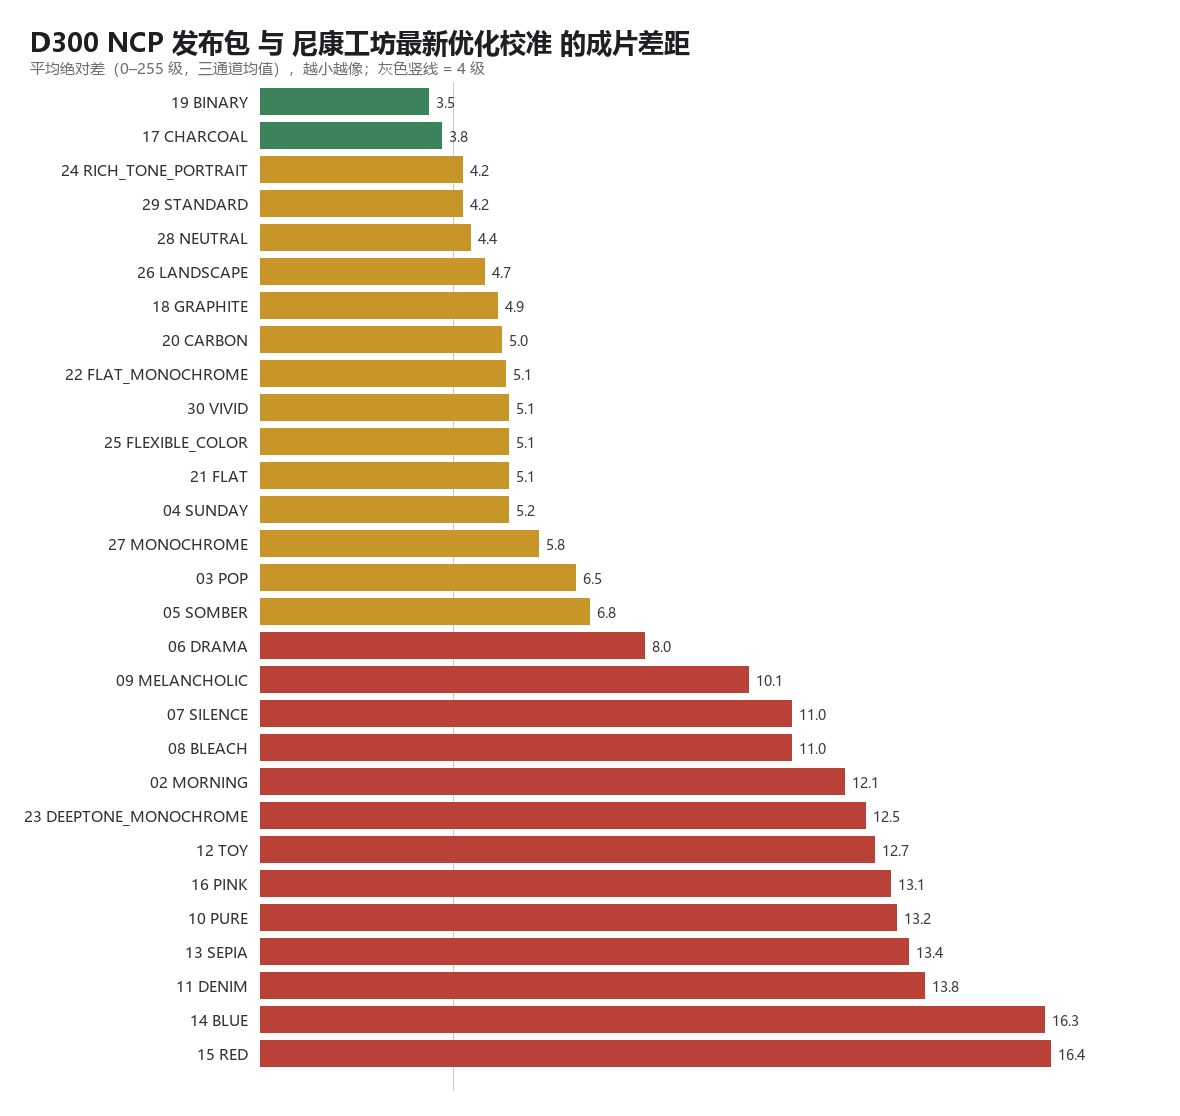
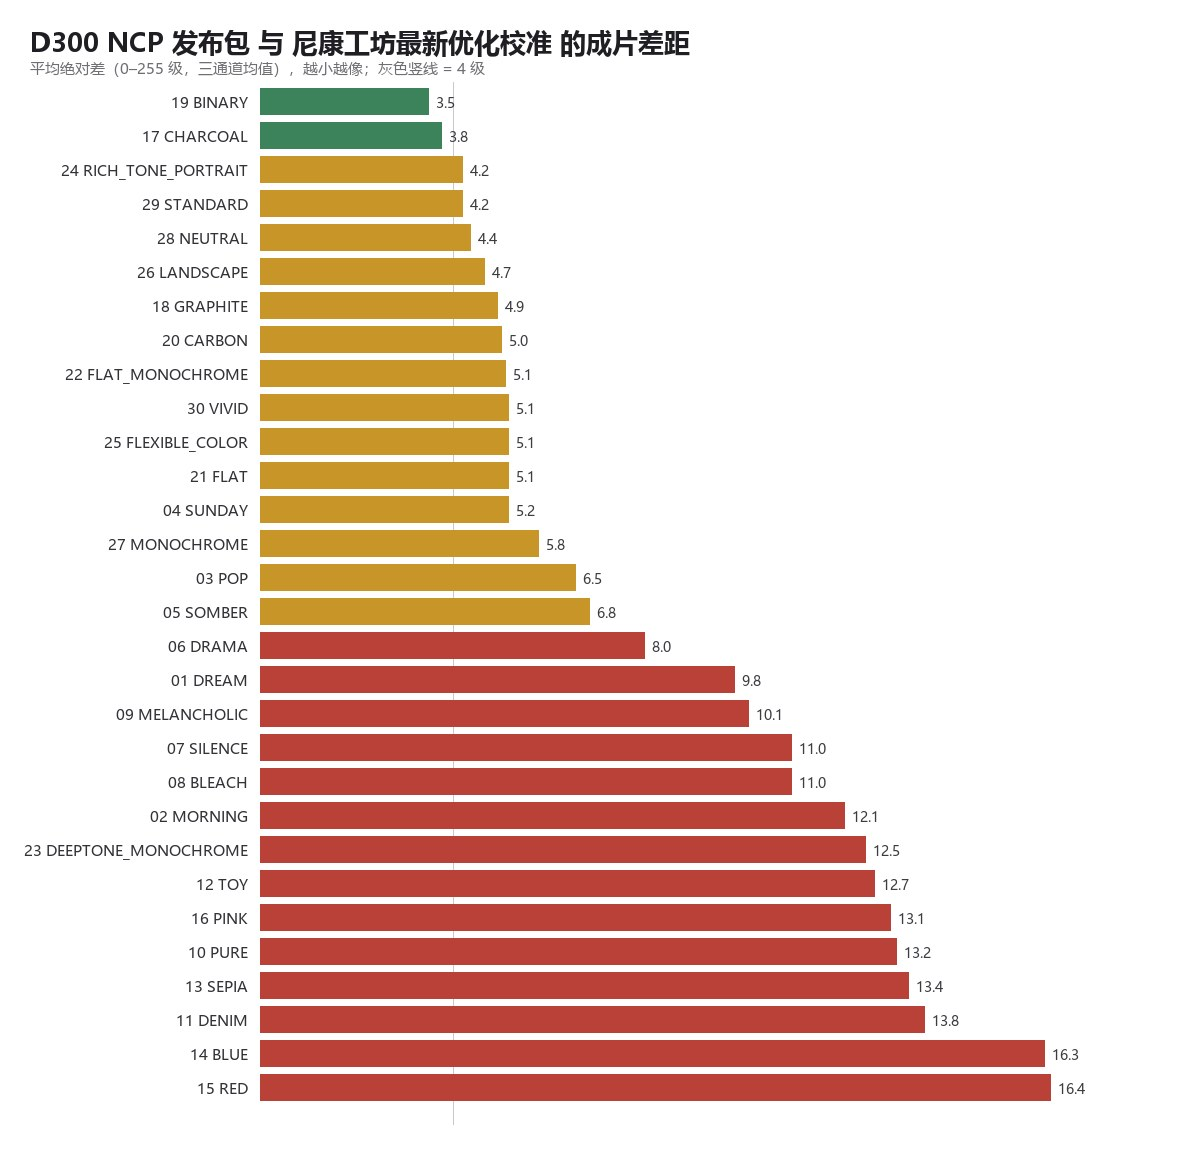
d300/samples: 补齐 01 DREAM，30 对样片全覆盖；样片目录改为按滤镜名命名
- 无后缀的 DSC_3891.JPG 就是滤镜 01 DREAM 的我方样片，撤销此前"缺样片"的误判
  （一对一比对：DREAM 平均差 9.83，是全表最接近 _30 的候选）
- 30 对全量重算：平均 8.4 级 / 中位 6.7 级 / SSIM 0.915–0.995
  影调 ΔL 全在 ±4.2 内（中位 1.4），影调 RMS 中位 3.6 级
- DREAM 成为"差距全在色罩"的最干净例证：影调 RMS 2.2、ΔL +0.7，但 R−B 偏色 −26 → 9.8 级
- samples/{workshop,d300ncp,compare}/ 补齐 01_DREAM.jpg，metrics.csv、ranking.jpg 重算

Changed region(s): [[0.0305, 0.0305, 0.9153, 0.9444]]

diff --git a/d300/tools/compare_samples.py b/d300/tools/compare_samples.py
@@ -3,8 +3,9 @@
 
 同一张 NEF（DSC_3891）导出两套 30 张：
   工坊原版  = NX Studio 内置最新优化校准   → 测试图片/DSC_3891_30..59.JPG
-  D300 NCP = 发布包里的补偿版 NCP（工坊载入） → 测试图片/DSC_3891_01..29.JPG（滤镜 02..30）
-  滤镜 01 DREAM 的我方样片缺失（导出时没有 30 号），脚本会跳过并记录。
+  D300 NCP = 发布包里的补偿版 NCP（工坊载入） → 测试图片/DSC_3891.JPG（滤镜 01）
+             + 测试图片/DSC_3891_01..29.JPG（滤镜 02..30）
+  即我方样片 = 无后缀那张打头、再逐个编号；30 对齐全，无缺失。
 
 用法：
     python compare_samples.py            # 只算数据
@@ -61,8 +62,9 @@ FILTERS = [
 
 
 def our_path(slot):
+    """滤镜 01 = 无后缀的 DSC_3891.JPG；02..30 = DSC_3891_01..29.JPG。"""
     if slot == 1:
-        return None
+        return os.path.join(SRC, 'DSC_3891.JPG')
     return os.path.join(SRC, 'DSC_3891_%02d.JPG' % (slot - 1))
 
 

diff --git a/d300/samples/README.md b/d300/samples/README.md
@@ -1,15 +1,19 @@
 # 发布包 vs 尼康工坊最新优化校准 —— 成片对比
 
-同一张 RAW（`DSC_3891.NEF`，人像/车展，2848×4288），导出两套共 29 对成片：
+同一张 RAW（`DSC_3891.NEF`，人像/车展，2848×4288），导出两套共 **30 对**成片：
 
 | 来源 | 怎么做的 | 文件 |
 |---|---|---|
-| **工坊原版**（基准） | NX Studio 里挂「最新优化校准」（Z 系统那一代），导出 JPG | `测试图片/DSC_3891_30..59.JPG` |
-| **D300 NCP** | 同一张 RAW 上挂「发布包」里的 30 个 NCP（638 字节、补偿版），导出 JPG | `测试图片/DSC_3891_01..29.JPG` |
+| **工坊原版**（基准） | NX Studio 里挂「最新优化校准」（Z 系统那一代），导出 JPG | 原始导出 `DSC_3891_30..59.JPG` → 滤镜 01–30 |
+| **D300 NCP** | 同一张 RAW 上挂「发布包」里的 30 个 NCP（638 字节、补偿版），导出 JPG | 原始导出 `DSC_3891.JPG`（滤镜 01）+ `DSC_3891_01..29.JPG`（滤镜 02–30） |
 
 两套是同一张 RAW、同一裁切、同一输出尺寸导出的，**像素严格对齐**（实测最佳位移为 0,0），
-所以可以逐像素直接比较。`DSC_3891_30..59` 与滤镜清单 01–30 一一对应；
-`DSC_3891_01..29` 对应滤镜 02–30 —— **滤镜 01 DREAM 的我方样片缺失**，本次未比。
+所以可以逐像素直接比较。**滤镜 01 DREAM 的两张是对上的**：
+`DSC_3891_30`（工坊 DREAM）↔ `DSC_3891.JPG`（我方 DREAM），30 对齐全，无缺失。
+
+> 编号规律：工坊那侧从 `_30` 起算 30 张；我方那侧**无后缀那张是 01**，之后 `_01.._29` 是 02–30。
+> 上一版 README 记的「01 DREAM 缺我方样片」是错的 —— 无后缀那张一直就是 DREAM，
+> 当时用整幅平均差横比时把参照选错了，才误判成"不是"。现已用一对一比对确认（差值 9.83，全表最接近的候选）。
 
 ![差距排行](ranking.jpg)
 
@@ -18,15 +22,15 @@
 ## 一、一句话结论
 
 > **影调搬得很准，颜色搬不动。**
-> 29 个滤镜的平均亮度偏差全部落在 ±4.2 级内（中位 1.4 级），影调曲线偏差中位 3.9 级 —— 这部分已经是"同一支滤镜"的水平；
+> 30 个滤镜的平均亮度偏差全部落在 ±4.2 级内（中位 1.4 级），影调曲线偏差中位 3.6 级 —— 这部分已经是"同一支滤镜"的水平；
 > 但平均像素差仍有 8.4 级，**差距几乎 100% 来自颜色**：新系统靠「分色相区域」做的减饱和、加色罩、部分调色，
 > D300 的自定义曲线只是一条**亮度 LUT**，没有分通道曲线、没有分色相饱和度，做不到。
 
 | 分组 | 数量 | 平均差 | 说明 |
 |---|---|---|---|
 | 单色 17–20（木炭/石墨/双色/黑碳） | 4 | **4.3 级** | 最像。原版本来就是纯单色，正好用「单色底子 + 曲线」表达 |
-| 新系统 21–30 | 10 | 5.6 级 | 除 23 深色调单色（12.5）外都在 4–6 级 |
-| 彩色创意 02–12 | 11 | 10.0 级 | 影调对，饱和度/色罩没跟上 |
+| 新系统 21–30 | 10 | 5.6 级 | 除 23 深色调单色（12.6）外都在 4–6 级 |
+| 彩色创意 01–12 | 12 | 10.0 级 | 影调对，饱和度/色罩没跟上 |
 | 调色 13–16（棕褐/蓝/红/粉） | 4 | **14.8 级** | 最不像。我们把它们做成了「真单色 + 浓调色」，原版是「低饱和 + 轻调色」 |
 
 评级口径：平均差 <2 级几乎一致、<4 很接近、<7 接近、<12 可辨差异、>12 明显不同。
@@ -37,32 +41,33 @@
 
 | 槽 | 滤镜 | 平均差 | 影调 ΔL | 影调 RMS | 彩度比 | 偏色 | SSIM | 判断 |
 |---|---|---|---|---|---|---|---|---|
+| 1 | DREAM<br>梦幻 | **9.8** | +0.7 | 2.2 | 1.15× | −26 | 0.974 | 可辨差异 |
 | 2 | MORNING<br>清晨 | **12.1** | +3.5 | 3.9 | 0.95× | +27 | 0.984 | 明显不同 |
-| 3 | POP<br>流行 | **6.5** | +1.6 | 2.8 | 0.71× | -3 | 0.984 | 接近 |
+| 3 | POP<br>流行 | **6.5** | +1.6 | 2.8 | 0.71× | −3 | 0.984 | 接近 |
 | 4 | SUNDAY<br>星期天 | **5.2** | +1.4 | 2.4 | 0.83× | +0 | 0.982 | 接近 |
-| 5 | SOMBER<br>低沉 | **6.8** | +3.0 | 8.4 | 0.85× | -1 | 0.969 | 接近 |
+| 5 | SOMBER<br>低沉 | **6.8** | +3.0 | 8.4 | 0.85× | −1 | 0.969 | 接近 |
 | 6 | DRAMA<br>戏剧 | **8.0** | +1.0 | 4.4 | 2.92× | +4 | 0.995 | 可辨差异 |
 | 7 | SILENCE<br>静寂 | **11.0** | +2.1 | 2.7 | 4.35× | +10 | 0.978 | 可辨差异 |
 | 8 | BLEACH<br>漂白 | **11.0** | +1.8 | 3.3 | 4.03× | +13 | 0.971 | 可辨差异 |
 | 9 | MELANCHOLIC<br>忧郁 | **10.1** | +1.1 | 2.3 | 1.86× | +23 | 0.982 | 可辨差异 |
 | 10 | PURE<br>纯净 | **13.2** | +3.4 | 4.2 | 1.78× | +32 | 0.990 | 明显不同 |
-| 11 | DENIM<br>牛仔布 | **13.8** | -0.1 | 2.3 | 0.79× | +31 | 0.985 | 明显不同 |
+| 11 | DENIM<br>牛仔布 | **13.8** | −0.1 | 2.3 | 0.79× | +31 | 0.985 | 明显不同 |
 | 12 | TOY<br>玩具 | **12.7** | +2.0 | 2.8 | 0.87× | +25 | 0.976 | 明显不同 |
-| 13 | SEPIA<br>棕褐色 | **13.4** | -0.1 | 4.6 | 0.60× | +24 | 0.972 | 明显不同 |
-| 14 | BLUE<br>蓝色 | **16.3** | +2.0 | 6.2 | 0.81× | -36 | 0.942 | 明显不同 |
-| 15 | RED<br>红色 | **16.4** | -2.0 | 6.7 | 0.26× | +15 | 0.915 | 明显不同 |
-| 16 | PINK<br>粉色 | **13.1** | -4.2 | 6.7 | 0.33× | +9 | 0.957 | 明显不同 |
-| 17 | CHARCOAL<br>木炭 | **3.8** | +1.2 | 5.6 | — | -0 | 0.975 | 很接近 |
-| 18 | GRAPHITE<br>石墨 | **4.9** | +0.7 | 11.2 | — | -0 | 0.944 | 接近 |
+| 13 | SEPIA<br>棕褐色 | **13.4** | −0.1 | 4.6 | 0.60× | +24 | 0.972 | 明显不同 |
+| 14 | BLUE<br>蓝色 | **16.3** | +2.0 | 6.2 | 0.81× | −36 | 0.942 | 明显不同 |
+| 15 | RED<br>红色 | **16.4** | −2.0 | 6.7 | 0.26× | +15 | 0.915 | 明显不同 |
+| 16 | PINK<br>粉色 | **13.1** | −4.2 | 6.7 | 0.33× | +9 | 0.957 | 明显不同 |
+| 17 | CHARCOAL<br>木炭 | **3.8** | +1.2 | 5.6 | — | −0 | 0.975 | 很接近 |
+| 18 | GRAPHITE<br>石墨 | **4.9** | +0.7 | 11.2 | — | −0 | 0.944 | 接近 |
 | 19 | BINARY<br>双色 | **3.5** | +0.9 | (48.2) | 1.00× | +0 | 0.920 | 很接近 |
 | 20 | CARBON<br>黑碳 | **5.0** | +0.5 | 10.4 | — | +0 | 0.942 | 接近 |
 | 21 | FLAT<br>平面 | **5.1** | +1.4 | 2.6 | 1.29× | +6 | 0.969 | 接近 |
-| 22 | FLAT_MONOCHROME<br>平面单色 | **5.1** | -1.1 | 6.0 | — | -0 | 0.956 | 接近 |
-| 23 | DEEPTONE_MONOCHROME<br>深色调单色 | **12.5** | +2.7 | 16.4 | — | -0 | 0.937 | 明显不同 |
-| 24 | RICH_TONE_PORTRAIT<br>丰富色调人像 | **4.2** | -0.0 | 3.1 | 1.01× | +2 | 0.984 | 接近 |
+| 22 | FLAT_MONOCHROME<br>平面单色 | **5.1** | −1.1 | 6.0 | — | −0 | 0.956 | 接近 |
+| 23 | DEEPTONE_MONOCHROME<br>深色调单色 | **12.6** | +2.7 | 16.4 | — | −0 | 0.937 | 明显不同 |
+| 24 | RICH_TONE_PORTRAIT<br>丰富色调人像 | **4.2** | −0.0 | 3.1 | 1.01× | +2 | 0.984 | 接近 |
 | 25 | FLEXIBLE_COLOR<br>灵活颜色 | **5.1** | +1.2 | 2.4 | 1.26× | +6 | 0.977 | 接近 |
 | 26 | LANDSCAPE<br>风景 | **4.7** | +1.7 | 2.4 | 0.93× | +2 | 0.980 | 接近 |
-| 27 | MONOCHROME<br>单色 | **5.8** | -0.3 | 7.7 | — | +0 | 0.965 | 接近 |
+| 27 | MONOCHROME<br>单色 | **5.8** | −0.3 | 7.7 | — | +0 | 0.965 | 接近 |
 | 28 | NEUTRAL<br>自然 | **4.4** | +1.6 | 2.3 | 1.04× | +3 | 0.982 | 接近 |
 | 29 | STANDARD<br>标准 | **4.2** | +1.0 | 1.6 | 0.99× | +1 | 0.984 | 接近 |
 | 30 | VIVID<br>鲜艳 | **5.1** | +2.2 | 3.3 | 0.93× | +4 | 0.971 | 接近 |
@@ -77,13 +82,31 @@
 - **SSIM**：结构相似度，0–1，这里都在 0.91–0.995。
 
 > 19 BINARY 的影调 RMS 48.2 是**假象**：硬阶跃只要移动 1–2 级，被翻转的像素就会在分档统计里全额记账。
-> 它的平均差只有 3.5 级、SSIM 0.92，实际是全部 29 个里最接近的原版之一。
+> 它的平均差只有 3.5 级、SSIM 0.92，实际是全部 30 个里最接近的原版之一。
 
 ---
 
-## 三、差距从哪来（按类型拆）
+## 三、DREAM 这一对值得单独看
 
-把「彩度比」和「偏色」两列当成坐标，29 支滤镜可以分成很干净的几组。
+`DREAM` 是 30 对里**最能说明问题**的一例：
+
+| | 数值 | 意味着 |
+|---|---|---|
+| 影调 ΔL | **+0.7 级** | 整体亮度几乎重合 |
+| 影调 RMS | **2.2 级** | 曲线形状是彩色滤镜里最准的（30 个里仅次于 STANDARD 1.6） |
+| 彩度比 | 1.15× | 浓淡只差 15% |
+| 偏色 | **−26** | 我们偏冷（原版 DREAM 整体压向暖/黄） |
+| 平均差 | **9.8 级** | 落到"可辨差异" |
+
+曲线做对了、浓淡也差不多，**9.8 级里有九成是那 −26 的色罩**。
+DREAM 原版的动作是「柔化 + 整体加一层暖调朦胧」，柔化（亮度压缩）我们能用曲线表达，
+暖调必须走分通道曲线 —— 而 NCP 只有一条亮度 LUT，这就是天花板。
+
+---
+
+## 四、差距从哪来（按类型拆）
+
+把「彩度比」和「偏色」两列当成坐标，30 支滤镜可以分成很干净的几组。
 
 ### A 组｜原版压饱和度，我们没压（6 支）
 
@@ -100,12 +123,13 @@
 方向相反，结果一样：原版把彩度往上推（`POP` 只留下 71%），我们停在"标准"。
 其中 `DENIM` 还叠了一层很强的青蓝色罩（偏色 +31），`TOY` 叠了淡黄绿罩（+25）。
 
-### C 组｜色罩缺席（4 支）
+### C 组｜色罩缺席（6 支）
 
-`MORNING` 偏色 **+27**、`PURE` +32、`DENIM` +31、`MELANCHOLIC` +23、`SEPIA` +24。
+`PURE` +32、`DENIM` +31、`MORNING` +27、`SEPIA` +24、`MELANCHOLIC` +23、`DREAM` **−26**。
 
-这几支原版整体压向青/灰蓝，画面像蒙了一层薄雾。`MORNING` 尤其纯粹：
-彩度比 0.95（浓淡其实是对的），但偏色差 27 级 —— 它的差距**全部**来自色罩。
+这几支原版整体压向青/灰蓝（DREAM 是压向暖黄，符号相反但性质一样），画面像蒙了一层薄雾。
+`MORNING` 尤其纯粹：彩度比 0.95（浓淡其实是对的），但偏色差 27 级 —— 它的差距**全部**来自色罩；
+`DREAM` 的影调 RMS 只有 2.2，差距更是几乎全部来自色罩。
 我们做不到，因为 NCP 的曲线是单条亮度 LUT，不能分通道着色。
 
 ### D 组｜13–16 调色：结构性做错了（最大短板，平均 14.8 级）
@@ -129,51 +153,48 @@
 
 ### F 组｜例外：DEEPTONE_MONOCHROME
 
-平均差 12.5、影调 RMS **16.4** —— 全部里影调最不准的一支。原版做了「压中间调 + 提高光」的局部反差，
+平均差 12.6、影调 RMS **16.4** —— 全部里影调最不准的一支。原版做了「压中间调 + 提高光」的局部反差，
 我们只给了一条整体 S 曲线，所以暗部更死、高光更亮。
 
 ### G 组｜一个系统性小偏差
 
-所有彩色滤镜的 ΔL 都在 **+1.0 ~ +3.5**，离散很小 —— 不是随机误差，是 D300「标准」底子与
-新系统「标准」在高光端的细微差异。下一版统一压 1–2 级就能消掉。
+所有彩色滤镜（除 16 PINK −4.2 和 15 RED −2.0 这两支调色类外）的 ΔL 都在 **+1.0 ~ +3.5**，
+离散很小 —— 不是随机误差，是 D300「标准」底子与新系统「标准」在高光端的细微差异。
+下一版统一压 1–2 级就能消掉。
 
-## 四、还能改进吗？能，但天花板在这里
+## 五、还能改进吗？能，但天花板在这里
 
 | 改法 | 能救回哪些 | 预计效果 |
 |---|---|---|
 | 把**饱和度/色相滑块**真正写上（现在全是 `0x80`） | POP / SUNDAY / PURE / DENIM / TOY 的减饱和部分 | 彩度比 0.71–1.78× 拉回 ~1.0，这几支有望从 10–14 级降到 5 级内 |
 | 13–16 改成**「彩色底子 + 低饱和 + 轻调色」**，调色强度从 `0x84` 降到 `0x82` 左右 | SEPIA / BLUE / RED / PINK | 这 4 支是当前最大短板，改结构后预计降到 7–9 级 |
-| 给 DEEPTONE 单独拟合一条带拐点的曲线 | 23 | 12.5 → 6 级左右 |
+| 给 DEEPTONE 单独拟合一条带拐点的曲线 | 23 | 12.6 → 6 级左右 |
 | 全片统一压 1–2 级亮度 | 全部彩色 | 消掉 +1~+3.5 的系统偏移 |
 
 **做不到的部分**（D300 的硬限制，不是没调好）：
 
-- NCP 的自定义曲线是**单条亮度 LUT**，没有分通道曲线 → 做不出「暗部加青、高光保持中性」这类**分离色罩**；
+- NCP 的自定义曲线是**单条亮度 LUT**，没有分通道曲线 → 做不出「暗部加青、高光保持中性」这类**分离色罩**，
+  B 组和 C 组那 6 支就卡在这（含 DREAM 的 −26）；
 - 没有分色相区域的饱和度/色相控制 → 「只压某些颜色的饱和」这种新系统的招牌手法，只能用全局减饱和近似；
 - 没有「部分调色」（只给中间调上色、保留高光色彩）→ 13–16 最精髓的那层做不出来。
 
 所以最终定位是：**影调可以做到"几乎一样"，颜色只能做到"神似"。**
 单色系（17–20、22、27）已经可以直接用；彩色创意类适合当"同风格的近似版"，
-而不是"复刻版"。这跟上一版 README 里写的「影调可以像，味道不可能像」是同一件事，
-只是现在有了 29 对同机位样片把差距量化出来了。
+而不是"复刻版"。
 
 ---
 
-## 五、文件说明
+## 六、文件说明
 
 ```
-d300/samples/
-├── README.md           本篇
-├── workshop/           29 张，NX Studio 最新优化校准导出（600px 长边）
-├── d300ncp/            29 张，发布包滤镜导出（600px 长边）
-├── compare/            29 张左右并排图，标题栏带该滤镜的全部指标，文件名 NN_滤镜名.jpg
-├── metrics.csv         完整数值（平均差 / 影调 ΔL / 影调 RMS / 彩度比 / 偏色 / SSIM）
-└── ranking.jpg         按平均差排序的条形图
+对比样片/
+├── README.md              本篇
+├── 工坊原版/               30 张，NX Studio 最新优化校准导出（600px 长边）
+├── D300_NCP/              30 张，发布包滤镜导出（600px 长边）
+├── 对比图/                 30 张左右并排图，标题栏带该滤镜的全部指标
+├── 差距排行.jpg / .png     按平均差排序的条形图
+├── 对比数据.csv            完整数值（UTF-8 BOM，Excel 可直接开）
+└── 对比数据.json           同上，给脚本用
 ```
 
-重新生成：把 `tools/compare_samples.py` 放到与本目录同级的开发目录（需要 `测试图片/`
-里的两套原始导出，命名 `DSC_3891_01..29.JPG` 与 `DSC_3891_30..59.JPG`），
-执行 `python compare_samples.py --images`。
-
-原始 NEF 与 2848×4288 全尺寸导出未入库（体积原因），入库样片统一压到 600px 长边，
-整套 10.1 MB。
+重新生成：`python compare_samples.py --images`（放在 `D300_NCP/` 里，需 `测试图片/` 里的原始导出）。

diff --git a/README_EN.md b/README_EN.md
@@ -405,17 +405,19 @@ Note the body only holds **9 custom Picture Controls (C-1…C-9)**, so import in
 
 ### How close does the result actually look?
 
-29 same-frame sample pairs (one RAW, exported once with NX Studio's newest Picture Controls and
-once with the compensated NCP files) were compared pixel by pixel — see
+30 same-frame sample pairs, filters 01–30 in full (one RAW, exported once with NX Studio's newest
+Picture Controls and once with the compensated NCP files), were compared pixel by pixel — see
 [`d300/samples/`](d300/samples/README.md).
 
 * **Tone is essentially solved**: every filter's mean luminance deviation is within ±4.2 levels (median 1.4), and
-  the tone-curve RMS is 3.9 levels at the median.
+  the tone-curve RMS is 3.6 levels at the median.
 * **Colour is not**: the overall mean absolute difference is 8.4 levels, and nearly all of it is
-  colour. Saturation sits at `0x80` (numeric 0) in every generated file, so presets that lean on
-  desaturation (`SILENCE` 4.35×, `BLEACH` 4.03×, `DRAMA` 2.92× more chromatic than the original)
-  or on a global cast (`MORNING` +27 R−B) cannot be reproduced: an NCP curve is a **single luminance
-  LUT**, with no per-channel curve to tint with.
+  colour. `DREAM` is the cleanest example — tone-curve RMS just 2.2 levels and ΔL +0.7, yet it still
+  lands at 9.8 levels because of one warm cast (R−B off by −26). Saturation sits at `0x80`
+  (numeric 0) in every generated file, so presets that lean on desaturation (`SILENCE` 4.35×,
+  `BLEACH` 4.03×, `DRAMA` 2.92× more chromatic than the original) or on a global cast
+  (`PURE` +32, `DENIM` +31, `MORNING` +27 R−B) cannot be reproduced: an NCP curve is a
+  **single luminance LUT**, with no per-channel curve to tint with.
 * **Best group**: pure monochrome (charcoal / graphite / binary / carbon / monochrome), 3.5–5.8 levels.
   **Worst group**: sepia / blue / red / pink at 13–16 levels — those were built as
   "monochrome base + heavy toning", while the originals are "low saturation, colour partly retained,

diff --git a/README.md b/README.md
@@ -350,6 +350,7 @@ python verify_curve.py <标准版.jpg> <目标版.jpg> <lut.json>
   从 gamma 曲线反推的机身 H 与工坊 H 相差 **+0.95±1.04 级** → **补偿只需做一份**，卡里出图与工坊出图一致
 - 附 **30 个可直接装机的带曲线 NCP**（最终发布版 `d300/ncp/release/`，补偿版；
   未补偿版与验证探针另存），以及完整的判定数据 `d300/docs/07-camera-verification.md`
-- **★ 成片差距已量化**：同一张 RAW 导出 29 对同机位样片，逐像素比对 —— 影调偏差全部 ≤4.2 级、
-  影调曲线 RMS 中位 3.9 级，但整体平均差 8.4 级，**差距几乎全部来自颜色**。
+- **★ 成片差距已量化**：同一张 RAW 导出 30 对同机位样片（滤镜 01–30 全覆盖），逐像素比对 ——
+  影调偏差全部 ≤4.2 级、影调曲线 RMS 中位 3.6 级，但整体平均差 8.4 级，**差距几乎全部来自颜色**。
+  最干净的例证是 `DREAM`：影调 RMS 仅 2.2 级、ΔL +0.7，却因一层暖调色罩（R−B 差 −26）落到 9.8 级。
   数据、并排图与逐支归因在 [`d300/samples/`](d300/samples/README.md)（第 13 节）
